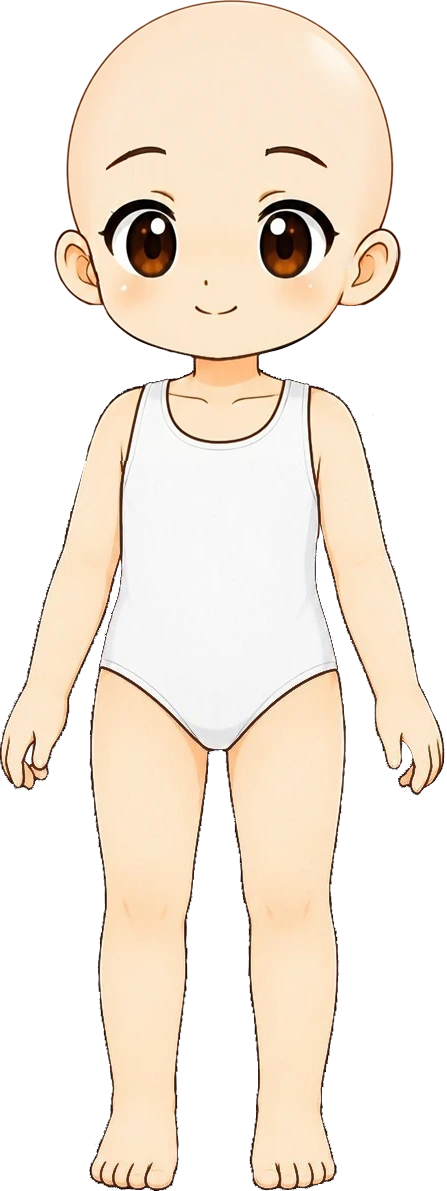
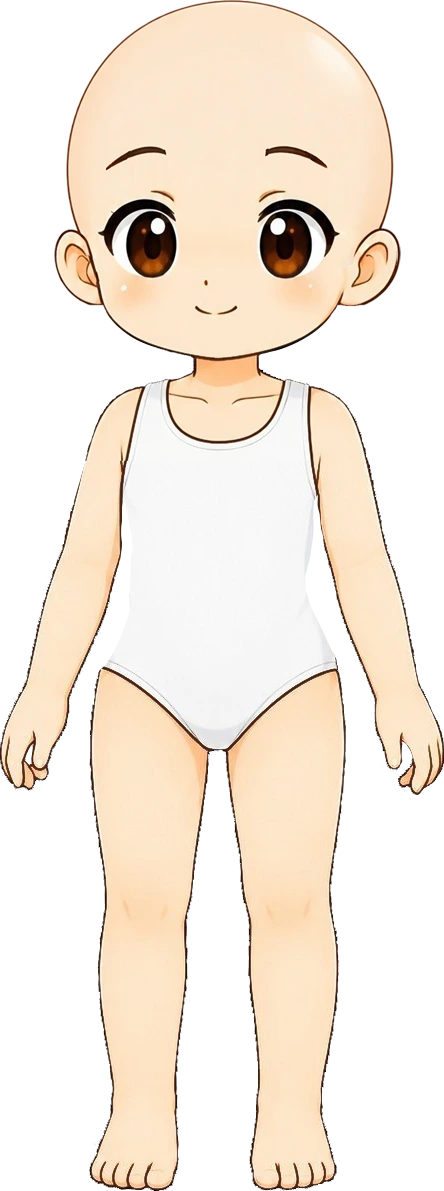
여아 민머리 몸 수정판으로 교체 (#758)
수영복 양옆 선을 안쪽으로 넣은 사용자 수정판. 같은 자리라 같은 변환으로 얹었고, 사파리·하늘 나들이 옷 옆으로 비치던 흰 수영복이 줄었다. body·default ?v=11.

Claude-Session: https://claude.ai/code/session_018maNuYqDfFyRSe9uKpZhPR

diff --git a/src/data/avatarEquipment.js b/src/data/avatarEquipment.js
@@ -42,7 +42,7 @@ export const DEFAULT_CHAR_DISPLAY_MODE = CHAR_DISPLAY_GROWTH;
    1024×1024 이미지. 모든 장비는 이 위에 덧씌워진다.
    아트가 아직 없으면 뷰어가 성장 3단계 캐릭터 → 이모지 순으로 폴백한다. */
 export const AVATAR_BASE_IMG   = "assets/avatar/base/default.webp?v=11";        // 남아(머리+몸통 합본 — 폴백용)
-export const AVATAR_BASE_IMG_GIRL = "assets/avatar/base/default-girl.webp?v=10"; // 여아(합본 — 폴백용)
+export const AVATAR_BASE_IMG_GIRL = "assets/avatar/base/default-girl.webp?v=11"; // 여아(합본 — 폴백용)
 /* 베이스를 '몸통'과 '머리' 두 장으로 나눠 둔다 (사용자 확정).
    모자처럼 얼굴째 덮는 장비(hidesHead)를 쓰면 머리 장을 아예 안 그리고 그 자리에 장비 그림만 얹는다.
    → 예전처럼 베이스 머리 위에 덮어 씌우면 크기가 조금만 안 맞아도 턱선·귀선이 겹쳐 보였는데,
@@ -74,10 +74,12 @@ export const AVATAR_BASE_IMG_GIRL = "assets/avatar/base/default-girl.webp?v=10";
    [2026-10-02] 여아 베이스 v10 — 남아와 같은 **민머리 + 머리카락 머리** 구조 (사용자 원화).
      머리카락 머리를 민머리 얼굴(눈~입)에 템플릿 매칭(배율 0.996 · 일치 0.906)으로 얹은 합본을 v8 실루엣에 맞췄다
      (배율 0.6957, IoU 0.991) → 기존 여아 옷·모자를 다시 맞출 필요가 없다. 갈래머리는 머리 장에 들어 있다.
-     머리 장이 턱선 아래로 2~5px 내려온 살색은 얼굴 폭(x430~600) 안에서만 지웠다(147px). 경로 ?v=10. */
+     머리 장이 턱선 아래로 2~5px 내려온 살색은 얼굴 폭(x430~600) 안에서만 지웠다(147px). 경로 ?v=10.
+   [2026-10-02] 여아 민머리 몸만 사용자 수정판으로 교체 — 수영복 양옆 선을 안쪽으로 넣어 몸통이 날씬해졌다
+   (같은 캔버스 자리라 같은 변환). 사파리·하늘 나들이 옷 옆으로 비치던 흰 수영복이 줄었다. body·default ?v=11. */
 export const AVATAR_BASE_BODY_IMG      = "assets/avatar/base/body.webp?v=10";
 export const AVATAR_BASE_HEAD_IMG      = "assets/avatar/base/head.webp?v=11";
-export const AVATAR_BASE_BODY_IMG_GIRL = "assets/avatar/base/body-girl.webp?v=10";
+export const AVATAR_BASE_BODY_IMG_GIRL = "assets/avatar/base/body-girl.webp?v=11";
 export const AVATAR_BASE_HEAD_IMG_GIRL = "assets/avatar/base/head-girl.webp?v=10";
 export const AVATAR_BASE_EMOJI = "🧒";
 

diff --git a/art-src/README.md b/art-src/README.md
@@ -473,7 +473,7 @@ getBoundingClientRect로 재서 정한다. 2026-08-05 점검에서 이 기준을
 | bg-forest-v4-src.webp | 꾸미기 배경 '마법 숲' 원화 v4 (872×1804 = 1:2.069 — v3와 같은 크기, 무대 칸 1:2.09 와 거의 같아 좌우가 아주 조금 잘린다). v3와 구도·소품이 같다 — 연보라·연분홍 파스텔 숲, 가운데 빛나는 아치문이 난 큰 나무, 그 왼쪽에 하얀 사슴, 위쪽에 빛나는 나비, 좌우 가장자리에 액자처럼 선 큰 나무 두 그루, 앞쪽에 보라 수정·빛나는 버섯, 가운데로 난 밝은 크림빛 길. 달라진 건 채색이다 — v3의 진한 색을 수채화처럼 옅게 풀어 전체가 부드러워졌고, 잎·풀의 잔결이 줄면서 큰 색면 위주가 됐다. 그 덕에 압축이 잘 먹어 배포본이 121KB → 87KB. tint 연보라 rgba(200,180,245,0.10) · darkStage 끔 — v3 그대로다(위쪽이 밝은 분홍·연보라라 크림색 문구가 안 읽힌다). deco 목록도 손대지 않았다 — 장식 이모지를 화면에서 통째로 꺼 둔 상태(SHOW_BG_DECO_EMOJI)라 눈으로 맞춰 볼 수 없어서, 다시 켤 때 그림 보고 고른다. 받은 그대로 톤 보정 없음. art-src 는 q92(206KB), 배포본은 q80(87KB) | stage-bg-forest.webp |
 | base-v10-boy-bald-src.webp | **아바타 베이스 v10 남아 — 민머리 몸 한 장 (사용자 원화 2026-10-02)**. 483×1173, 투명 배경, 속옷 차림. 모자를 쓸 때 머리카락이 모자 밖으로 삐져나오지 않게 하려고 사용자가 민머리로 따로 그렸다. **목에서 자르지 않고 머리째 base/body.webp 로 맨 아래에 깐다.** 아래 머리카락 머리를 얼굴(눈~입) 템플릿 매칭으로 얹은(배율 1.004 · 일치 0.967) 합본을 v9 탑재본 실루엣에 맞췄다 — 합본 알파 상자 높이 850 · (342,89) · 배율 0.6979, 겹침 IoU 0.989 라 기본옷·기존 장비를 다시 맞출 필요가 없다. 민머리 탑재 상자 (344,118)-(683,942) | avatar/base/body.webp · default.webp |
 | base-v10-boy-hair-src.webp | **아바타 베이스 v10 남아 — 머리카락 머리 (사용자 원화 2026-10-02)**. 487×446, **흰 불투명 배경**(알파 없음)으로 받았다 → 가장자리에서 4-연결로 이어진 흰색(최솟값>232·채도<18)만 지우고 경계 1px은 흰 정도로 반투명 처리. 위 민머리와 같은 변환으로 얹어 base/head.webp — 탑재 상자 (340,87)-(686,403). **[2026-10-02 보정]** 탑재본이 턱선 아래로 3px(y399~401) 더 내려와 목보다 진한 주황 띠가 보여서, 열마다 턱선(알파>100·최댓값<130 인 가장 아래 줄, y380~405) 바로 아래 알파를 지웠다(432px, ?v=11). 평소에는 이 머리가 민머리 위에 보이고, 얼굴째 덮는 모자(hidesHead)를 쓰면 이 장만 빠지고 민머리 위에 모자 그림이 얹힌다 | avatar/base/head.webp · default.webp |
-| base-v10-girl-bald-src.webp | **아바타 베이스 v10 여아 — 민머리 몸 한 장 (사용자 원화 2026-10-02, v8 교체)**. 447×1191, 투명 배경, 흰 수영복 차림. 남아 v10과 같은 구조로 **목에서 자르지 않고 머리째 base/body-girl.webp 로 맨 아래에 깐다.** 아래 머리카락 머리를 얼굴(눈~입) 템플릿 매칭으로 얹은(배율 0.996 · 일치 0.906 — 앞머리가 눈썹을 가려 남아보다 낮다) 합본을 v8 탑재본 실루엣에 맞췄다 — 합본 알파 상자 높이 848 · 배율 0.6957, 겹침 IoU 0.991 이라 기본옷·기존 여아 장비를 다시 맞출 필요가 없다. 민머리 탑재 상자 (353,109)-(667,943) | avatar/base/body-girl.webp · default-girl.webp (?v=10) |
+| base-v10-girl-bald-src.webp | **아바타 베이스 v10 여아 — 민머리 몸 한 장 (사용자 원화 2026-10-02, v8 교체 · 같은 날 수정판으로 다시 교체)**. 444×1191 (수정판: 수영복 양옆 선을 안쪽으로 넣어 몸통을 날씬하게 — 첫 판 447×1191 과 원점·높이가 같아 같은 변환을 그대로 썼다, 경로 ?v=11), 투명 배경, 흰 수영복 차림. 남아 v10과 같은 구조로 **목에서 자르지 않고 머리째 base/body-girl.webp 로 맨 아래에 깐다.** 아래 머리카락 머리를 얼굴(눈~입) 템플릿 매칭으로 얹은(배율 0.996 · 일치 0.906 — 앞머리가 눈썹을 가려 남아보다 낮다) 합본을 v8 탑재본 실루엣에 맞췄다 — 합본 알파 상자 높이 848 · 배율 0.6957, 겹침 IoU 0.991 이라 기본옷·기존 여아 장비를 다시 맞출 필요가 없다. 민머리 탑재 상자 (353,109)-(667,943) | avatar/base/body-girl.webp · default-girl.webp (?v=10) |
 | base-v10-girl-hair-src.webp | **아바타 베이스 v10 여아 — 머리카락 머리(갈래머리 포함) (사용자 원화 2026-10-02)**. 479×475, 투명 배경. 위 민머리와 같은 변환으로 얹어 base/head-girl.webp — 탑재 상자 (345,90)-(681,424). 남아 때처럼 턱선 아래로 2~5px 내려온 살색이 있어, **얼굴 폭(x430~600) 안에서만** 열마다 턱선(알파>100·최댓값<130 인 가장 아래 줄, y330~380) 아래의 밝은 픽셀을 지웠다(147px) — 갈래머리는 건드리지 않는다. 평소에는 이 머리가 민머리 위에 보이고, 얼굴째 덮는 모자(hidesHead)를 쓰면 이 장만 빠진다 | avatar/base/head-girl.webp · default-girl.webp (?v=10) |
 | starter-tee-src.webp | **기본 반팔티 (사용자 원화 2026-08-15, 2026-08-19 탑재)** — 흰 반팔. **807**×1536 (베이스보다 넓은 캔버스) · 알파 상자 x70~733·y410~990 · 가로 중심 **401.5**. 몸보다 크게 그려져 있어 탑재 시 중심을 401.5→355 로 옮기고 줄인다. 배치는 아래 표 참고 — **남녀 값이 다르다**. 상의 슬롯 **기본 지급 아이템**(top_tee_white · 값 0 · 못 벗음) | avatar/top/starter-tee(-girl).webp |
 | base-v6-body-dressed-src.webp | **옷 입은 몸통 원화 (사용자 원화 2026-08-16)** — 흰 반팔·초록 반바지·흰 양말을 입은 목 아래 몸통 한 장. 260×543, 배경 불투명으로 받아 가장자리 플러드필로 배경만 지웠다(셔츠도 흰색이라 전역 흰색 제거는 못 쓴다). 탑재: 배율 **1.10497** 로 키워 목을 y340·발바닥을 y940 에 맞추고 가로 중심을 512 에 뒀다 → 1024 캔버스 x369~656(폭 287) · y340~940. 기존 몸통(폭 277)보다 10px 넓다. **베이스 몸통 4장을 이걸로 교체했다** — 몸통 2장(남녀 공용 같은 그림) + 합본 2장(몸통+머리). 머리 그림(head/head-girl)은 그대로다 | avatar/base/body.webp · body-girl.webp · default.webp · default-girl.webp |
